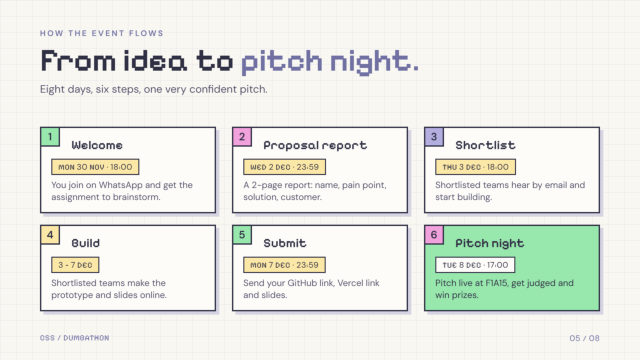
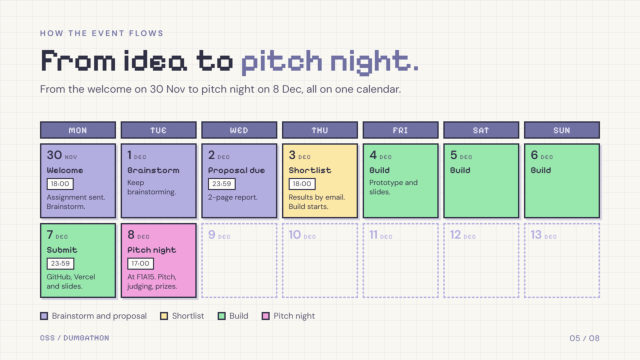
Dumbathon deck: show the event flow as a Monday to Sunday calendar

diff --git a/events/01-dumbathon/index.html b/events/01-dumbathon/index.html
@@ -114,16 +114,21 @@
     .note-strip{position:absolute;left:120px;right:120px;top:900px;display:flex;align-items:center;gap:18px;font-size:27px;color:var(--muted)}
     .note-strip i{flex:none;width:20px;height:20px;background:var(--mint);border:4px solid var(--ink)}
 
-    /* Slide 5: the flow */
-    .road{position:absolute;left:120px;right:120px;top:380px;display:grid;grid-template-columns:repeat(3,1fr);gap:34px 48px;list-style:none;padding:0}
-    .stop{position:relative;padding:22px 30px 26px;border:4px solid var(--ink);background:var(--card);box-shadow:10px 10px 0 var(--shadow)}
-    .stop .n{position:absolute;left:-4px;top:-4px;display:grid;place-items:center;width:60px;height:60px;border:4px solid var(--ink);background:var(--c,var(--mint));font:600 32px DM,Arial,sans-serif}
-    .stop h3{margin-left:60px;font-size:38px;line-height:1.1;min-height:60px;display:flex;align-items:center}
-    .stop .chip{display:inline-block;margin-top:10px;background:var(--sun)}
-    .stop p{margin-top:12px;font-size:27px;line-height:1.35;color:var(--muted)}
-    .stop.final{background:var(--mint)}
-    .stop.final p{color:var(--ink)}
-    .stop.final .chip{background:var(--card)}
+    /* Slide 5: the flow as a calendar */
+    .cal{position:absolute;left:120px;right:120px;top:364px;display:grid;grid-template-columns:repeat(7,1fr);gap:14px}
+    .dow{display:grid;place-items:center;height:52px;background:var(--purple);border:4px solid var(--ink);color:#f2f0fb;font:400 26px ClearDigits,Pixelify,monospace;letter-spacing:2px}
+    .day{position:relative;min-height:210px;padding:14px 16px 16px;border:4px solid var(--ink);background:var(--c);box-shadow:6px 6px 0 var(--shadow)}
+    .day .d{display:flex;align-items:baseline;gap:8px;font:600 36px/1 ClearDigits,Pixelify,monospace}
+    .day .d small{font:400 18px ClearDigits,Pixelify,monospace;letter-spacing:2px;color:var(--muted)}
+    .day h3{margin-top:12px;font-size:27px;line-height:1.1}
+    .day .at{display:inline-block;margin-top:8px;padding:0 10px;background:var(--card);border:3px solid var(--ink);font:400 20px/1.5 ClearDigits,Pixelify,monospace;letter-spacing:1px}
+    .day p{margin-top:8px;font-size:22px;line-height:1.3;color:var(--ink)}
+    .day.dim{border-style:dashed;border-color:var(--lavender);background:transparent;box-shadow:none}
+    .day.dim .d{color:var(--lavender)}
+    .day.dim .d small{color:var(--lavender)}
+    .legend{position:absolute;left:120px;right:120px;top:930px;display:flex;gap:40px;font-size:25px;color:var(--muted)}
+    .legend span{display:flex;align-items:center;gap:12px}
+    .legend i{display:block;width:24px;height:24px;border:4px solid var(--ink);background:var(--c)}
 
     /* Slide 6: the website */
     .site-row{position:absolute;left:120px;right:120px;top:388px;display:flex;align-items:center;gap:44px}
@@ -288,21 +293,31 @@
       <div class="footer"><span>CSS / DUMBATHON</span><span>04 / 08</span></div>
     </section>
 
-    <!-- 5 · The flow -->
+    <!-- 5 · The flow, as a calendar -->
     <section class="slide" aria-label="Slide 5: How it flows" hidden>
       <div class="head" style="top:84px">
         <p class="eyebrow rise">How the event flows</p>
         <h1 class="rise" style="--d:1;font-size:96px;margin:18px 0 16px">From idea to <em>pitch night.</em></h1>
-        <p class="lede rise" style="--d:2;font-size:32px">Eight days, six steps, one very confident pitch.</p>
+        <p class="lede rise" style="--d:2;font-size:32px">From the welcome on 30 Nov to pitch night on 8 Dec, all on one calendar.</p>
       </div>
-      <ol class="road">
-        <li class="stop pop" style="--d:3"><span class="n" style="--c:var(--mint)">1</span><h3>Welcome</h3><span class="chip">MON 30 NOV · 18:00</span><p>You join on WhatsApp and get the assignment to brainstorm.</p></li>
-        <li class="stop pop" style="--d:4"><span class="n" style="--c:var(--pink)">2</span><h3>Proposal report</h3><span class="chip">WED 2 DEC · 23:59</span><p>A 2-page report: name, pain point, solution, customer.</p></li>
-        <li class="stop pop" style="--d:5"><span class="n" style="--c:var(--lavender)">3</span><h3>Shortlist</h3><span class="chip">THU 3 DEC · 18:00</span><p>Shortlisted teams hear by email and start building.</p></li>
-        <li class="stop pop" style="--d:6"><span class="n" style="--c:var(--sun)">4</span><h3>Build</h3><span class="chip">3 – 7 DEC</span><p>Shortlisted teams make the prototype and slides online.</p></li>
-        <li class="stop pop" style="--d:7"><span class="n" style="--c:var(--mint)">5</span><h3>Submit</h3><span class="chip">MON 7 DEC · 23:59</span><p>Send your GitHub link, Vercel link and slides.</p></li>
-        <li class="stop final pop" style="--d:8"><span class="n" style="--c:var(--pink)">6</span><h3>Pitch night</h3><span class="chip">TUE 8 DEC · 17:00</span><p>Pitch live at F1A15, get judged and win prizes.</p></li>
-      </ol>
+      <div class="cal" role="list">
+        <div class="dow">MON</div><div class="dow">TUE</div><div class="dow">WED</div><div class="dow">THU</div><div class="dow">FRI</div><div class="dow">SAT</div><div class="dow">SUN</div>
+        <div class="day pop" style="--c:var(--lavender);--d:3"><span class="d">30<small>NOV</small></span><h3>Welcome</h3><span class="at">18:00</span><p>Assignment sent. Brainstorm.</p></div>
+        <div class="day pop" style="--c:var(--lavender);--d:3"><span class="d">1<small>DEC</small></span><h3>Brainstorm</h3><p>Keep brainstorming.</p></div>
+        <div class="day pop" style="--c:var(--lavender);--d:4"><span class="d">2<small>DEC</small></span><h3>Proposal due</h3><span class="at">23:59</span><p>2-page report.</p></div>
+        <div class="day pop" style="--c:var(--sun);--d:4"><span class="d">3<small>DEC</small></span><h3>Shortlist</h3><span class="at">18:00</span><p>Results by email. Build starts.</p></div>
+        <div class="day pop" style="--c:var(--mint);--d:5"><span class="d">4<small>DEC</small></span><h3>Build</h3><p>Prototype and slides.</p></div>
+        <div class="day pop" style="--c:var(--mint);--d:5"><span class="d">5<small>DEC</small></span><h3>Build</h3></div>
+        <div class="day pop" style="--c:var(--mint);--d:6"><span class="d">6<small>DEC</small></span><h3>Build</h3></div>
+        <div class="day pop" style="--c:var(--mint);--d:6"><span class="d">7<small>DEC</small></span><h3>Submit</h3><span class="at">23:59</span><p>GitHub, Vercel and slides.</p></div>
+        <div class="day pop" style="--c:var(--pink);--d:7"><span class="d">8<small>DEC</small></span><h3>Pitch night</h3><span class="at">17:00</span><p>At F1A15. Pitch, judging, prizes.</p></div>
+        <div class="day dim pop" style="--d:7"><span class="d">9<small>DEC</small></span></div>
+        <div class="day dim pop" style="--d:8"><span class="d">10<small>DEC</small></span></div>
+        <div class="day dim pop" style="--d:8"><span class="d">11<small>DEC</small></span></div>
+        <div class="day dim pop" style="--d:9"><span class="d">12<small>DEC</small></span></div>
+        <div class="day dim pop" style="--d:9"><span class="d">13<small>DEC</small></span></div>
+      </div>
+      <p class="legend rise" style="--d:9"><span style="--c:var(--lavender)"><i></i>Brainstorm and proposal</span><span style="--c:var(--sun)"><i></i>Shortlist</span><span style="--c:var(--mint)"><i></i>Build</span><span style="--c:var(--pink)"><i></i>Pitch night</span></p>
       <div class="footer"><span>CSS / DUMBATHON</span><span>05 / 08</span></div>
     </section>
 
